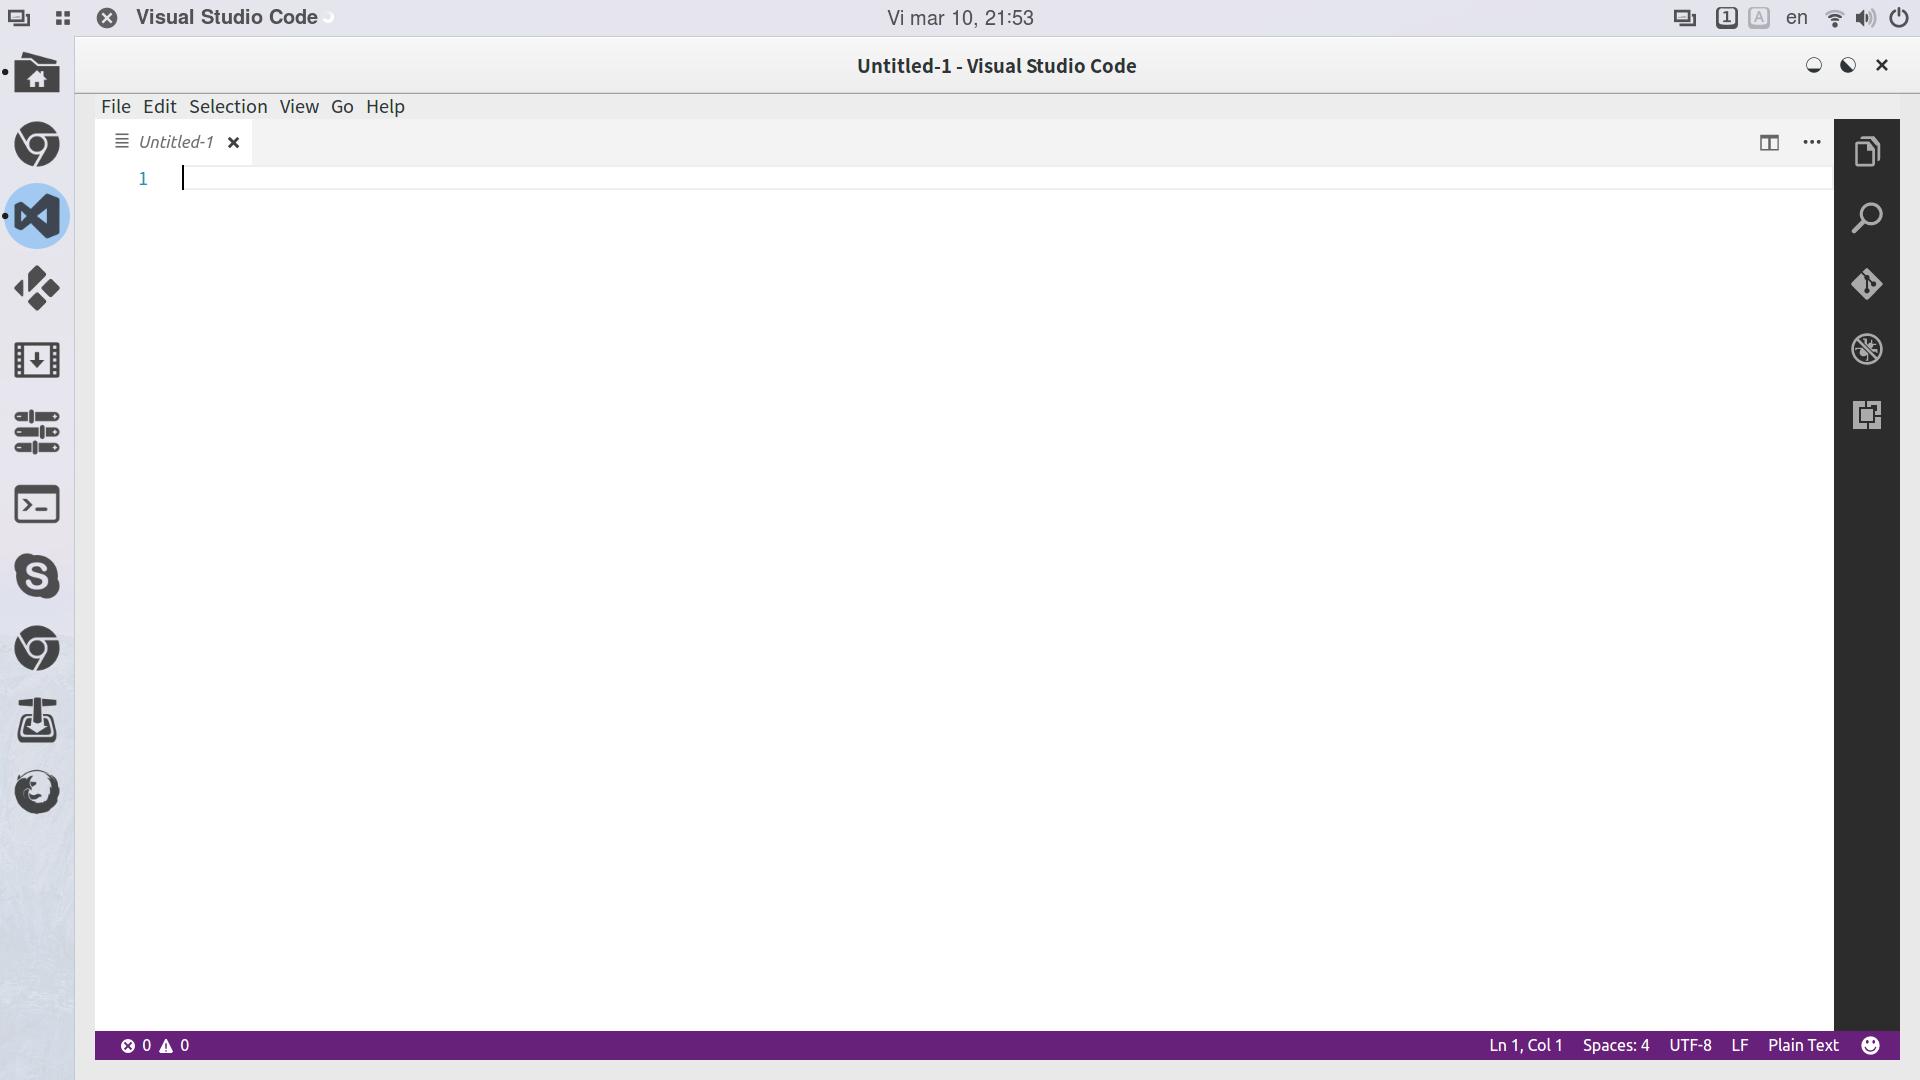
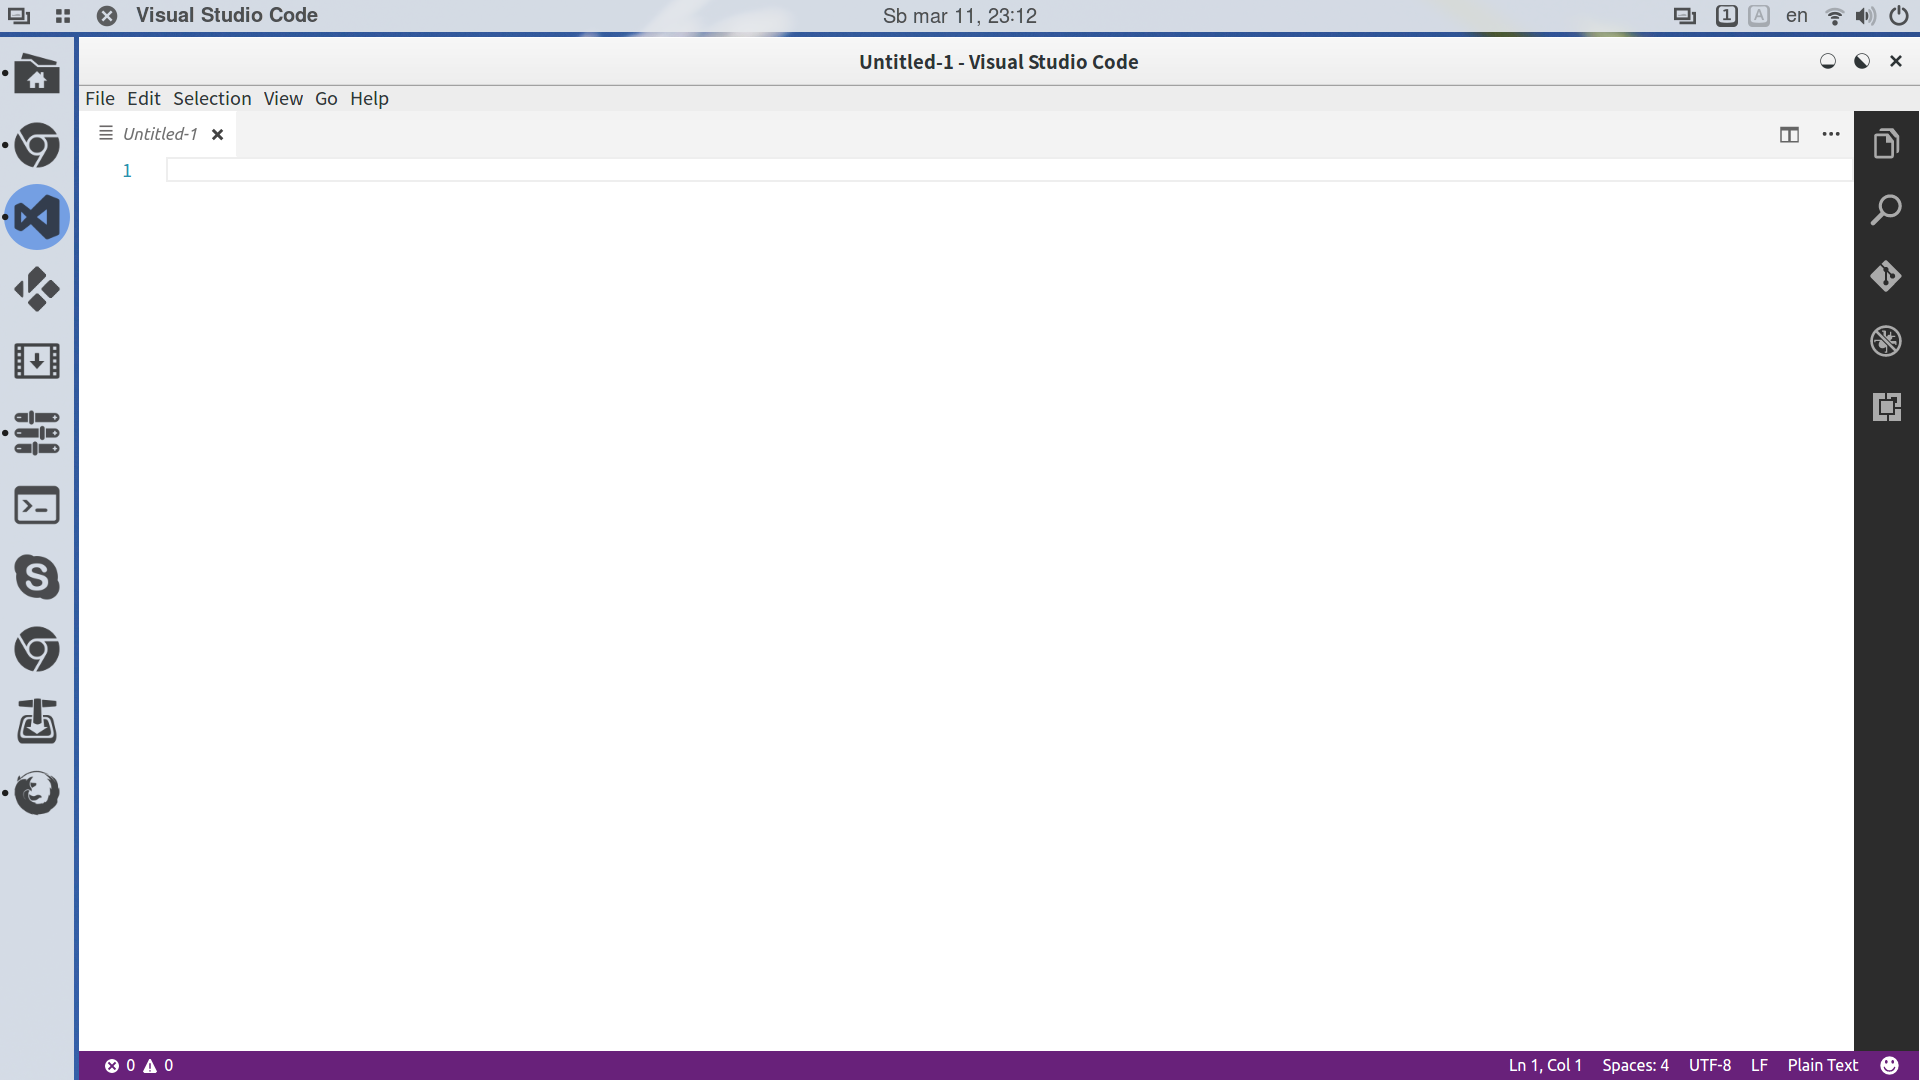
margins for dash an panel, blue theme and accent color

diff --git a/.config/gtk-3.0/gtk.css b/.config/gtk-3.0/gtk.css
@@ -1,19 +1,57 @@
 
 GtkWindow {
-	padding: 14px;
+/*
+	padding: 10px;
+	background-color: #CED0CE;
+	border-top: 0 none;
+*/
 }
 
 .window-frame {
-	padding: 20px;
+	/*border-top: 0 none;*/
+/*
+	padding-left: 20px;
+	padding-bottom: 20px;
+	padding-right: 2px;
+*/
 }
 
 .window-frame.maximized {
+	/*border-top: 0 none;*/
 	border-radius: 0;
-	border-left: 1px solid #c0ccd4;
+	/*border-left: 1px solid #c0ccd4;*/
+}
+
+.titlebar {
+	/*border-bottom: 0 none;*/
+	padding: 10px;
 }
 
 .maximized .titlebar {
 	border-radius: 0;
-	border-top: 1px solid #c0ccd4;
-	border-left: 1px solid #c0ccd4;	
+	/*border-top: 0 none;
+	border-bottom: 0 none;*/
+	/*border-left: 1px solid #c0ccd4;*/
+/*
+	padding-top: 10px;
+*/
+}
+
+.header-bar {
+/*
+	background-color: #F1F2EE;
+	background-color: #F1F2EE;
+	background-image: none;
+	border-top: 0 none;
+	border-bottom: 0 none;
+*/
+}
+
+.scrollbar {
+/*
+  -GtkScrollbar-has-backward-stepper: true;
+  -GtkScrollbar-has-forward-stepper: true;
+  -GtkRange-slider-width: 30;
+  -GtkRange-stepper-size: 20;
+*/
 }

diff --git a/.local/share/gnome-shell/extensions/dash-to-dock@micxgx.gmail.com/stylesheet.css b/.local/share/gnome-shell/extensions/dash-to-dock@micxgx.gmail.com/stylesheet.css
@@ -100,7 +100,7 @@
 
 #dashtodockContainer.running-dots .app-well-app.focused  .overview-icon,
 #dashtodockContainer.dashtodock .app-well-app.focused  .overview-icon {
-    background-color: #a1c9f2;
+    background-color: #749fe3;
     background-image:none;
     /*border: 2px solid rgba(48,48,48,0.50);*/
     border-radius: 40px;
@@ -111,6 +111,7 @@
 
 #dashtodockContainer.dashtodock #dash {
     background-color: rgba(229,233,236,0.90);
+    margin-right: 5px;
 	/*border: 1px solid rgba(48,48,48,0.75);*/
 }
 

diff --git a/.local/share/themes/slimAdwaita/gnome-shell/gnome-shell.css b/.local/share/themes/slimAdwaita/gnome-shell/gnome-shell.css
@@ -687,7 +687,8 @@ StEntry:insensitive,
      background-color: rgba(229,233,236,0.90);
     border-top:0px;border-right:0px;border-left:0px;
     font-weight: bold;
-    height: 36px;}
+    margin-bottom: 5px;
+    height: 32px;}
 #panel:overview {
     background-color: transparent;
     border-color: transparent;
